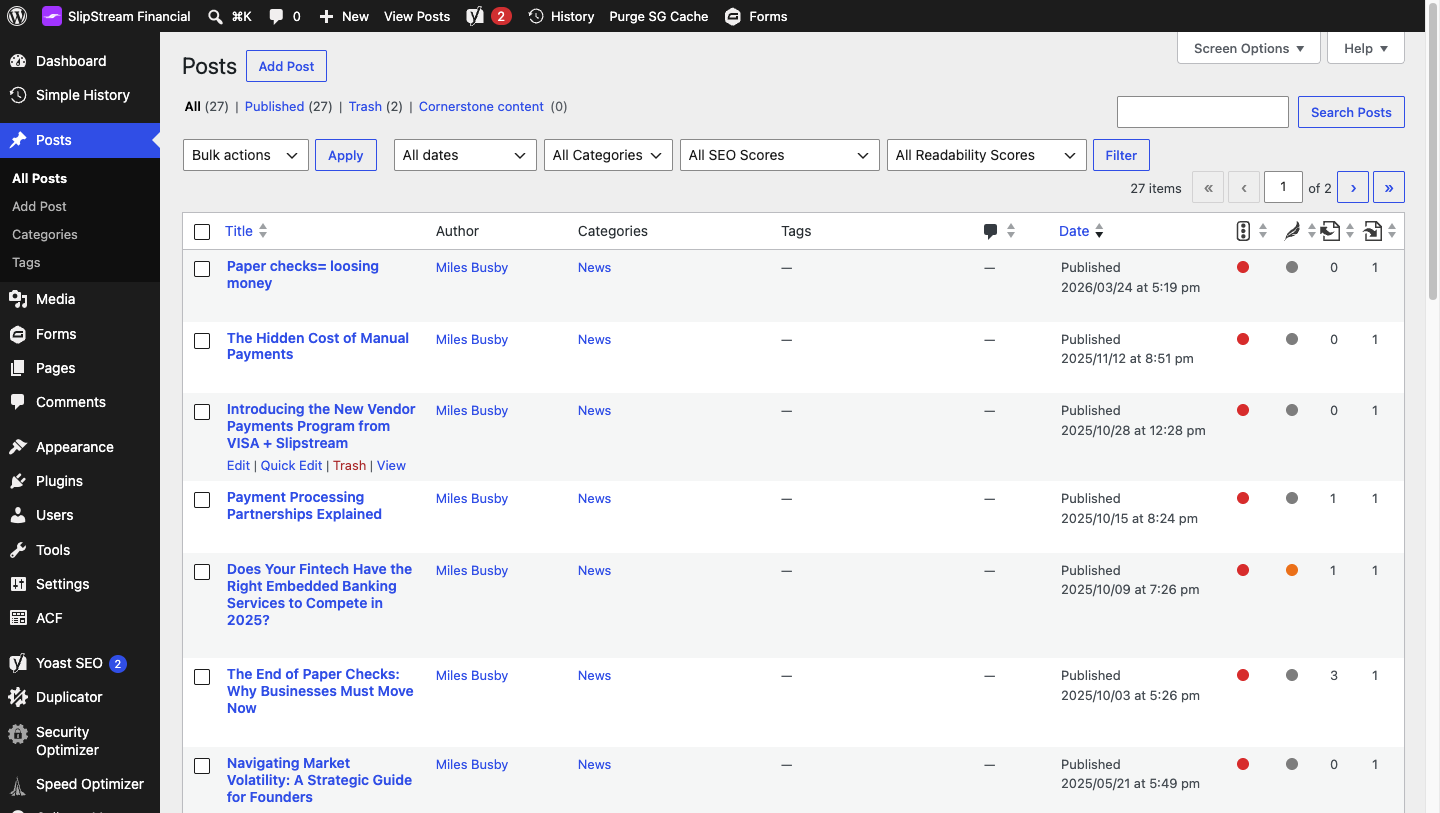
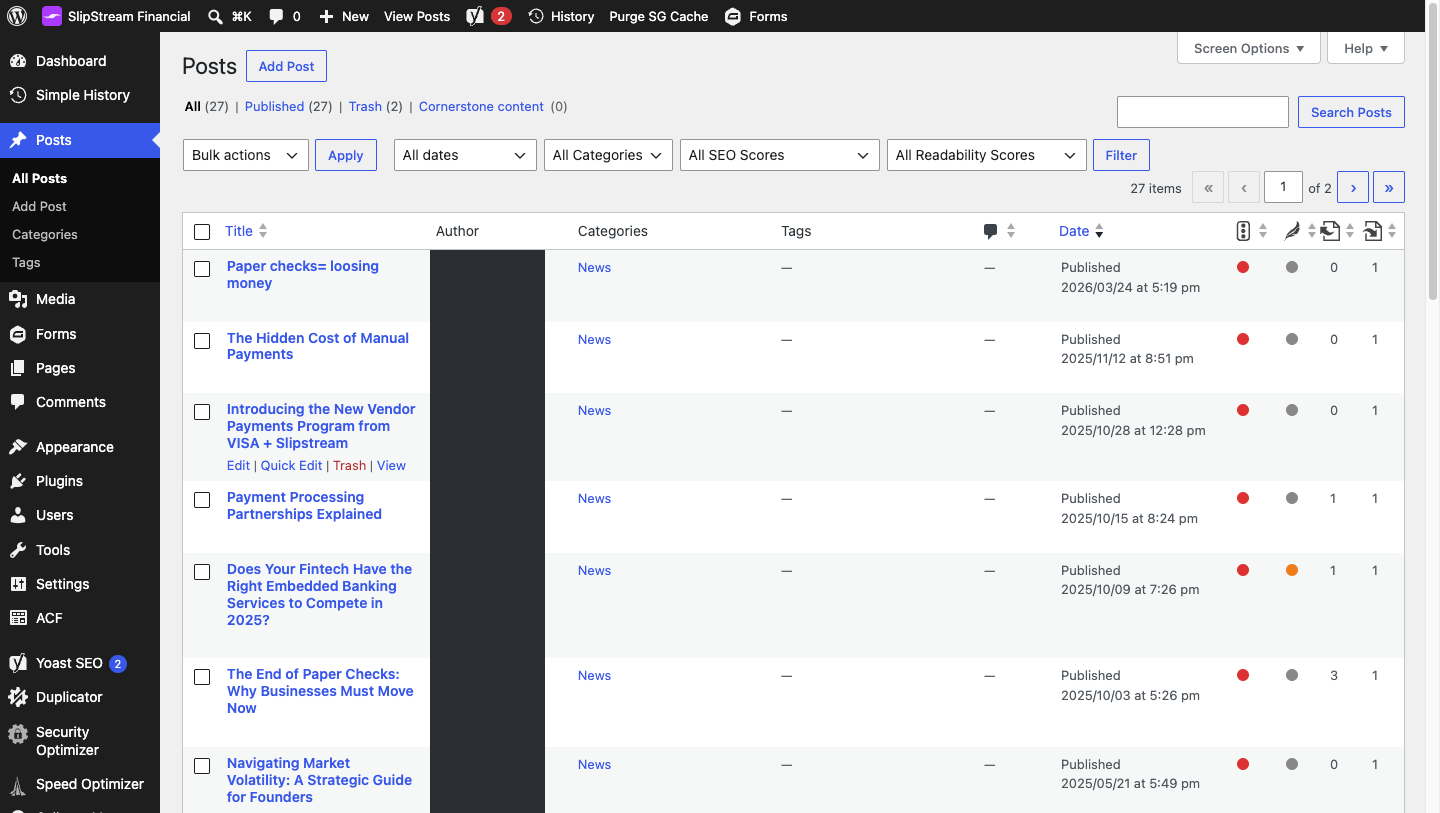
final fixes, changes, removing sensitive information

Changed region(s): [[0.2812, 0.3075, 0.4062, 1.0]]

diff --git a/site/pages/index.html b/site/pages/index.html
@@ -55,6 +55,12 @@
     <li class="toctree-l2"><a class="reference internal" href="#templates">Templates</a>
     </li>
     <li class="toctree-l2"><a class="reference internal" href="#solution-page-sections">Solution page sections</a>
+        <ul>
+    <li class="toctree-l3"><a class="reference internal" href="#edit-the-banking-treasury-hero">Edit the Banking &amp; Treasury hero</a>
+    </li>
+    <li class="toctree-l3"><a class="reference internal" href="#content-blocks-below-the-hero">Content blocks below the hero</a>
+    </li>
+        </ul>
     </li>
     <li class="toctree-l2"><a class="reference internal" href="#images-and-links">Images and links</a>
     </li>
@@ -126,7 +132,19 @@
 <p><strong>Resources</strong> renders the theme’s blog hero and post listing. Its layout is composed by the theme; editing the page body does not control that listing. The local <strong>Resources</strong> page is currently trashed — the public posts listing is the <strong>Blog</strong> page under <strong>Settings → Reading</strong>. Confirm whether a Resources page should be restored on production.</p>
 <p>Avoid changing an existing page’s template without checking the preview.</p>
 <h2 id="solution-page-sections">Solution page sections</h2>
-<p>Typical solution-page blocks (documented for Banking &amp; Treasury in the theme, and present on the local <strong>Modern Banking &amp; Treasury Solutions</strong> / <code>banking-treasury</code> page):</p>
+<p>The local <strong>Modern Banking &amp; Treasury Solutions</strong> (<code>banking-treasury</code>) page uses the <strong>Inner Page</strong> template. Its hero is rendered by the template above the content blocks; it is not a Solution Hero block in List View. This was confirmed against the active theme and the local page’s saved template and block content on November 19, 2026.</p>
+<h3 id="edit-the-banking-treasury-hero">Edit the Banking &amp; Treasury hero</h3>
+<ol>
+<li>Open the page under <strong>Pages → All Pages</strong> and keep its <strong>Inner Page</strong> template selected.</li>
+<li>Edit the page <strong>Title</strong> for the default headline, or use <strong>Inner Page Hero → Headline override</strong>.</li>
+<li>Edit the page <strong>Excerpt</strong> for the hero description.</li>
+<li>In <strong>Inner Page Hero</strong>, edit <strong>Label above headline</strong>, <strong>Button</strong> and <strong>Background</strong> as needed. These are page-level fields, not a content block.</li>
+<li>Change the page’s <strong>Featured image</strong> for the hero’s side image. The background falls back from the page’s <strong>Background</strong> field to its featured image, then the Customizer/theme default.</li>
+<li>Preview and save the page.</li>
+</ol>
+<p>Do not add a <strong>Solution Hero</strong> block to this page: the Inner Page template already renders its hero, so a separate hero block would create a second banner. The standalone Solution Hero block remains available for other layouts that require it.</p>
+<h3 id="content-blocks-below-the-hero">Content blocks below the hero</h3>
+<p>The saved Banking &amp; Treasury page contains these blocks:</p>
 <table>
 <thead>
 <tr>
@@ -135,10 +153,6 @@
 </tr>
 </thead>
 <tbody>
-<tr>
-<td>Solution Hero</td>
-<td>Label above headline, headline, copy, CTA, side image, background <em>(often supplied by the Inner Page hero instead)</em></td>
-</tr>
 <tr>
 <td>Logos Strip</td>
 <td>Headline, intro; logos (image, alt, URL); marquee toggle</td>

diff --git a/site/developers/index.html b/site/developers/index.html
@@ -206,7 +206,11 @@
 </tr>
 <tr>
 <td>Homepage section order on page <strong>Home</strong></td>
-<td>Verified in local admin + List View screenshot</td>
+<td>Reported verified in the developer’s local admin walkthrough</td>
+</tr>
+<tr>
+<td>Banking &amp; Treasury hero and body blocks</td>
+<td>Rechecked November 19, 2026: active theme <code>slipstream-financial-wp</code>, page uses <code>page-templates/inner-page.php</code>; body begins with Logos Strip and has no Solution Hero block</td>
 </tr>
 <tr>
 <td>Posts page <strong>Blog</strong>, category <strong>News</strong>, Blog Hero label “Knowledge Base”</td>
@@ -221,8 +225,12 @@
 <td>Verified in local admin</td>
 </tr>
 <tr>
-<td>Editor screenshots in <code>docs/img/</code></td>
-<td>Captured from local admin (Nov 19, 2026); private fields obscured</td>
+<td>Original <code>wp-*.png</code> editing screenshots</td>
+<td>Captured November 10, 2026, using an unpublished example</td>
+</tr>
+<tr>
+<td>Numbered admin screenshots</td>
+<td>Added in the developer’s November 19, 2026 walkthrough; private fields obscured</td>
 </tr>
 <tr>
 <td>Production URLs, hosting, caching, SEO plugins</td>
@@ -239,7 +247,7 @@
 </tbody>
 </table>
 <h2 id="public-repo-safety">Public-repo safety</h2>
-<p>Do not add credentials, license keys, private email addresses, notification recipients, Local MySQL sockets, <code>wp-config</code> values or submission data to this repository. Prefer field names and admin paths over secrets.</p>
+<p>Do not add custom login URLs, credentials, license keys, private email addresses, notification recipients, Local MySQL sockets, <code>wp-config</code> values or submission data to this repository. Prefer field names and admin paths over secrets.</p>
 <h2 id="extend-this-documentation">Extend this documentation</h2>
 <ul>
 <li>Confirm active theme/plugins, page URLs, template assignments and navigation on production.</li>

diff --git a/site/blog/index.html b/site/blog/index.html
@@ -120,7 +120,8 @@
 </ul>
 <h2 id="blog-hero-defaults">Blog hero defaults</h2>
 <p>Open <strong>Appearance → Customize → Blog Hero</strong> to edit the label above the headline, headline, intro and optional background used on the posts index. Category archives use the category name and description instead of those Customizer copy fields. On the local site the label above the headline is set to <strong>Knowledge Base</strong>.</p>
-<p><img alt="Customizer showing Blog Hero among Header, Footer and Inner Pages" src="../img/11-customize-blog-hero.png" /></p>
+<p>The Customizer overview below shows where to find <strong>Blog Hero</strong>. Open that section to see its editable fields.</p>
+<p><img alt="Customizer overview showing the Blog Hero section" src="../img/11-customize-blog-hero.png" /></p>
 <h2 id="resources-template">Resources template</h2>
 <p>The <strong>Resources</strong> page template also renders the blog layout. Listing cards still come from WordPress posts. In the local admin the <strong>Resources</strong> page is trashed; confirm on production whether editors should use <strong>Blog</strong>, a restored Resources page, or both.</p>
 <p>Developer follow-up: confirm production posts-page URL, category labels, sticky/featured behavior and removal of any remaining sample content.</p>

diff --git a/site/index.html b/site/index.html
@@ -141,7 +141,7 @@
 </tbody>
 </table>
 <h2 id="before-you-start">Before you start</h2>
-<p>Sign in at <a href="https://www.slipstreamfinancial.com/slipstream-access/">https://www.slipstreamfinancial.com/slipstream-access/</a> using your assigned account. Available menus depend on your permissions.</p>
+<p>To request the website’s login URL or account access, contact your Coalition Technologies project team. Once you receive access, sign in using your assigned account. Available menus depend on your permissions.</p>
 <p>This site uses a custom theme with ACF Pro blocks in the WordPress block editor. Select a section in <strong>List View</strong> to locate its fields. Preview your changes, check the page on desktop and mobile, then use <strong>Update</strong>, <strong>Save</strong> or <strong>Publish</strong>, as shown in your editor.</p>
 <p>Start with <a href="pages/">Editing pages</a>, <a href="home/">Homepage</a>, or <a href="menu/">Header, footer and menus</a>.</p>
 <h2 id="site-map-at-a-glance">Site map at a glance</h2>
@@ -226,5 +226,5 @@
 
 <!--
 MkDocs version : 1.6.1
-Build Date UTC : 2026-11-19 18:49:42.117762+00:00
+Build Date UTC : 2026-11-19 19:43:05.041130+00:00
 -->

diff --git a/site/menu/index.html b/site/menu/index.html
@@ -112,7 +112,8 @@
 <li>Header email link.</li>
 <li>Phone display text and phone link.</li>
 </ul>
-<p><img alt="Customizer with Header, Footer, Inner Pages and Blog Hero sections" src="../img/06-customize-header.png" /></p>
+<p>The overview below shows the available sections. Select <strong>Header</strong> to open the controls described above.</p>
+<p><img alt="Customizer overview with Header, Footer, Inner Pages and Blog Hero sections" src="../img/06-customize-header.png" /></p>
 <p>Update the visible phone number and its <code>tel:</code> link together. The email link uses a <code>mailto:</code> address. Do not publish private addresses in this documentation repository; maintain them only in Customizer.</p>
 <h2 id="footer">Footer</h2>
 <p>Open <strong>Appearance → Customize → Footer</strong> to edit the about/blurb text, primary and secondary CTA labels/URLs, support email, sales email and copyright line. The theme also uses shared logo and phone settings.</p>

diff --git a/site/home/index.html b/site/home/index.html
@@ -123,7 +123,7 @@
 <li>Nexus Platform</li>
 <li>Video Spotlight</li>
 </ol>
-<p><img alt="Home page List View with Homepage Hero selected and its fields in the sidebar" src="../img/02-home-list-view.png" /></p>
+<p>For an illustrated example of selecting blocks and opening their fields, see <a href="../pages/#basic-block-editing-illustrated-example">Basic block editing</a>.</p>
 <h2 id="available-homepage-sections">Available homepage sections</h2>
 <table>
 <thead>

diff --git a/docs/pages.md b/docs/pages.md
@@ -20,11 +20,25 @@ Avoid changing an existing page’s template without checking the preview.
 
 ## Solution page sections
 
-Typical solution-page blocks (documented for Banking & Treasury in the theme, and present on the local **Modern Banking & Treasury Solutions** / `banking-treasury` page):
+The local **Modern Banking & Treasury Solutions** (`banking-treasury`) page uses the **Inner Page** template. Its hero is rendered by the template above the content blocks; it is not a Solution Hero block in List View. This was confirmed against the active theme and the local page’s saved template and block content on November 19, 2026.
+
+### Edit the Banking & Treasury hero
+
+1. Open the page under **Pages → All Pages** and keep its **Inner Page** template selected.
+2. Edit the page **Title** for the default headline, or use **Inner Page Hero → Headline override**.
+3. Edit the page **Excerpt** for the hero description.
+4. In **Inner Page Hero**, edit **Label above headline**, **Button** and **Background** as needed. These are page-level fields, not a content block.
+5. Change the page’s **Featured image** for the hero’s side image. The background falls back from the page’s **Background** field to its featured image, then the Customizer/theme default.
+6. Preview and save the page.
+
+Do not add a **Solution Hero** block to this page: the Inner Page template already renders its hero, so a separate hero block would create a second banner. The standalone Solution Hero block remains available for other layouts that require it.
+
+### Content blocks below the hero
+
+The saved Banking & Treasury page contains these blocks:
 
 | Section | Main fields |
 | --- | --- |
-| Solution Hero | Label above headline, headline, copy, CTA, side image, background *(often supplied by the Inner Page hero instead)* |
 | Logos Strip | Headline, intro; logos (image, alt, URL); marquee toggle |
 | Process Steps | Headline, copy; steps (tag, title, copy, image) |
 | Video Copy Split | Headline, intro, body; checklist; poster; video file or URL; play label |

diff --git a/docs/developers.md b/docs/developers.md
@@ -36,18 +36,20 @@ The documentation uses deep purple for readable links on white, with dark naviga
 | Item | Status |
 | --- | --- |
 | Theme paths, Customizer controls, menu locations, block field labels | Verified from theme source |
-| Homepage section order on page **Home** | Verified in local admin + List View screenshot |
+| Homepage section order on page **Home** | Reported verified in the developer’s local admin walkthrough |
+| Banking & Treasury hero and body blocks | Rechecked November 19, 2026: active theme `slipstream-financial-wp`, page uses `page-templates/inner-page.php`; body begins with Logos Strip and has no Solution Hero block |
 | Posts page **Blog**, category **News**, Blog Hero label “Knowledge Base” | Verified in local admin |
 | Gravity Forms **1 Homepage Hero** and **2 Contact Lead** (+ field labels) | Verified in local admin |
 | Menu location → menu assignments | Verified in local admin |
-| Editor screenshots in `docs/img/` | Captured from local admin (Nov 19, 2026); private fields obscured |
+| Original `wp-*.png` editing screenshots | Captured November 10, 2026, using an unpublished example |
+| Numbered admin screenshots | Added in the developer’s November 19, 2026 walkthrough; private fields obscured |
 | Production URLs, hosting, caching, SEO plugins | Not verified here |
 | GF notification recipients / delivery | Intentionally omitted (private); confirm in WP admin |
 | Whether **Resources** should be restored vs using **Blog** | Needs production decision |
 
 ## Public-repo safety
 
-Do not add credentials, license keys, private email addresses, notification recipients, Local MySQL sockets, `wp-config` values or submission data to this repository. Prefer field names and admin paths over secrets.
+Do not add custom login URLs, credentials, license keys, private email addresses, notification recipients, Local MySQL sockets, `wp-config` values or submission data to this repository. Prefer field names and admin paths over secrets.
 
 ## Extend this documentation
 

diff --git a/DEVELOPER-PROMPT.md b/DEVELOPER-PROMPT.md
@@ -20,7 +20,7 @@ Prioritize practical instructions for a nontechnical site editor:
 1. Identify the real homepage, content pages, Resources/blog pages and their templates. Explain which content comes from blocks, posts, Customizer settings or theme defaults.
 2. Add short walkthroughs for the blocks actually used: locating the block in List View, editing its named fields, updating images/buttons/repeater rows, previewing and saving. Do not document every unused starter block just because it exists in the code.
 3. Verify header/footer controls and menu locations, then document how to maintain them.
-4. Confirm the forms actually used and explain field editing, confirmations, notifications and testing. Do not expose private recipient addresses, entries, credentials or license keys.
+4. Confirm the forms actually used and explain field editing, confirmations, notifications and testing. Do not expose custom login URLs, private recipient addresses, entries, credentials or license keys. Direct readers to the Coalition Technologies project team for login access.
 5. Add verified project-specific notes for blog categories, featured images and resource listings. Include maintenance/deployment details only when confirmed and relevant.
 
 Use actual field labels and page names. Never treat seed scripts, sample pages, PHP fallback content or design proposals as proof of production configuration. The existing Finley CTA screenshots show an unpublished demonstration page, not production page content. Do not turn that example into a published page.

diff --git a/docs/index.md b/docs/index.md
@@ -15,7 +15,7 @@ A practical starting guide for maintaining the Slipstream Financial WordPress we
 
 ## Before you start
 
-Sign in at [https://www.slipstreamfinancial.com/slipstream-access/](https://www.slipstreamfinancial.com/slipstream-access/) using your assigned account. Available menus depend on your permissions.
+To request the website’s login URL or account access, contact your Coalition Technologies project team. Once you receive access, sign in using your assigned account. Available menus depend on your permissions.
 
 This site uses a custom theme with ACF Pro blocks in the WordPress block editor. Select a section in **List View** to locate its fields. Preview your changes, check the page on desktop and mobile, then use **Update**, **Save** or **Publish**, as shown in your editor.
 

diff --git a/docs/blog.md b/docs/blog.md
@@ -26,7 +26,9 @@ Listing behavior from the theme:
 
 Open **Appearance → Customize → Blog Hero** to edit the label above the headline, headline, intro and optional background used on the posts index. Category archives use the category name and description instead of those Customizer copy fields. On the local site the label above the headline is set to **Knowledge Base**.
 
-![Customizer showing Blog Hero among Header, Footer and Inner Pages](img/11-customize-blog-hero.png)
+The Customizer overview below shows where to find **Blog Hero**. Open that section to see its editable fields.
+
+![Customizer overview showing the Blog Hero section](img/11-customize-blog-hero.png)
 
 ## Resources template
 

diff --git a/docs/menu.md b/docs/menu.md
@@ -9,7 +9,9 @@ Open **Appearance → Customize → Header**. Available settings include:
 - Header email link.
 - Phone display text and phone link.
 
-![Customizer with Header, Footer, Inner Pages and Blog Hero sections](img/06-customize-header.png)
+The overview below shows the available sections. Select **Header** to open the controls described above.
+
+![Customizer overview with Header, Footer, Inner Pages and Blog Hero sections](img/06-customize-header.png)
 
 Update the visible phone number and its `tel:` link together. The email link uses a `mailto:` address. Do not publish private addresses in this documentation repository; maintain them only in Customizer.
 
